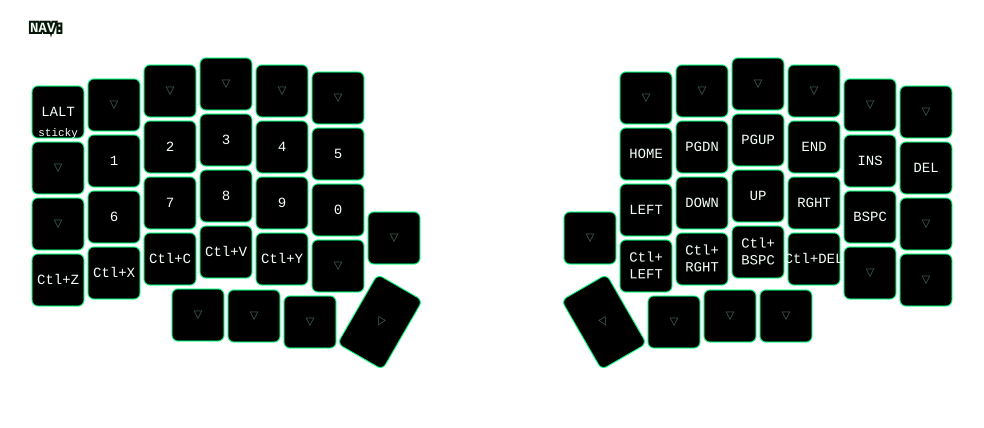
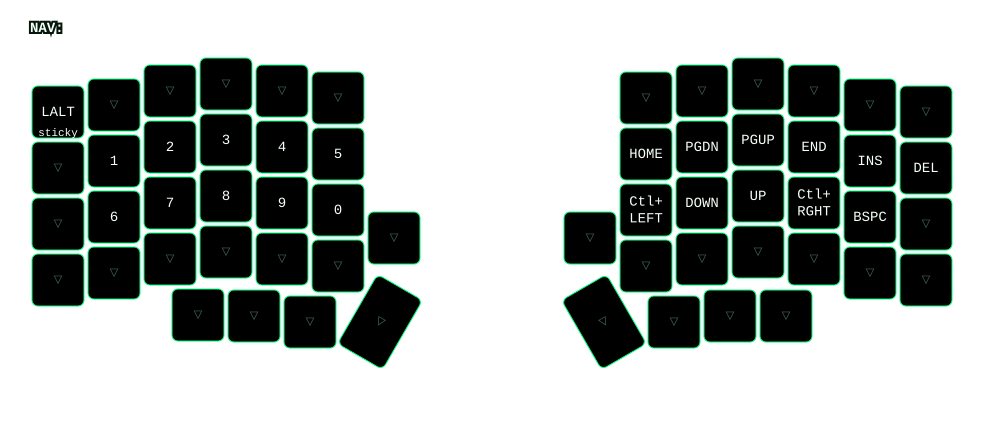
feat awesome

diff --git a/keyboards/lily58/keymaps/caulk/keymap.c b/keyboards/lily58/keymaps/caulk/keymap.c
@@ -53,8 +53,8 @@ const uint16_t PROGMEM keymaps[][MATRIX_ROWS][MATRIX_COLS] = {
   [_NAV] = LAYOUT(
     OSM(MOD_LALT), KC_TRNS,         KC_TRNS,         KC_TRNS,         KC_TRNS,         KC_TRNS,                           KC_TRNS,         KC_TRNS,         KC_TRNS,         KC_TRNS,         KC_TRNS,         KC_TRNS,
     KC_TRNS,       KC_1,            KC_2,            KC_3,            KC_4,            KC_5,                              KC_HOME,         KC_PGDN,         KC_PGUP,         KC_END,          KC_INS,          KC_DEL,
-    KC_TRNS,       KC_6,            KC_7,            KC_8,            KC_9,            KC_0,                              KC_LEFT,         KC_DOWN,         KC_UP,           KC_RGHT,         KC_BSPC,         KC_TRNS,
-    LCTL(KC_Z),    LCTL(KC_X),      LCTL(KC_C),      LCTL(KC_V),      LCTL(KC_Y),      KC_TRNS,        KC_TRNS,  KC_TRNS, LCTL(KC_LEFT),  LCTL(KC_RGHT),  LCTL(KC_BSPC),  LCTL(KC_DEL),   KC_TRNS,         KC_TRNS,
+    KC_TRNS,       KC_6,            KC_7,            KC_8,            KC_9,            KC_0,                              LCTL(KC_LEFT),  KC_DOWN,         KC_UP,           LCTL(KC_RGHT),  KC_BSPC,         KC_TRNS,
+    KC_TRNS,       KC_TRNS,         KC_TRNS,         KC_TRNS,         KC_TRNS,         KC_TRNS,        KC_TRNS,  KC_TRNS, KC_TRNS,        KC_TRNS,        KC_TRNS,        KC_TRNS,        KC_TRNS,         KC_TRNS,
                                       KC_TRNS,      KC_TRNS,         KC_TRNS,         KC_TRNS,         KC_TRNS,         KC_TRNS,         KC_TRNS,         KC_TRNS
   ),
 
